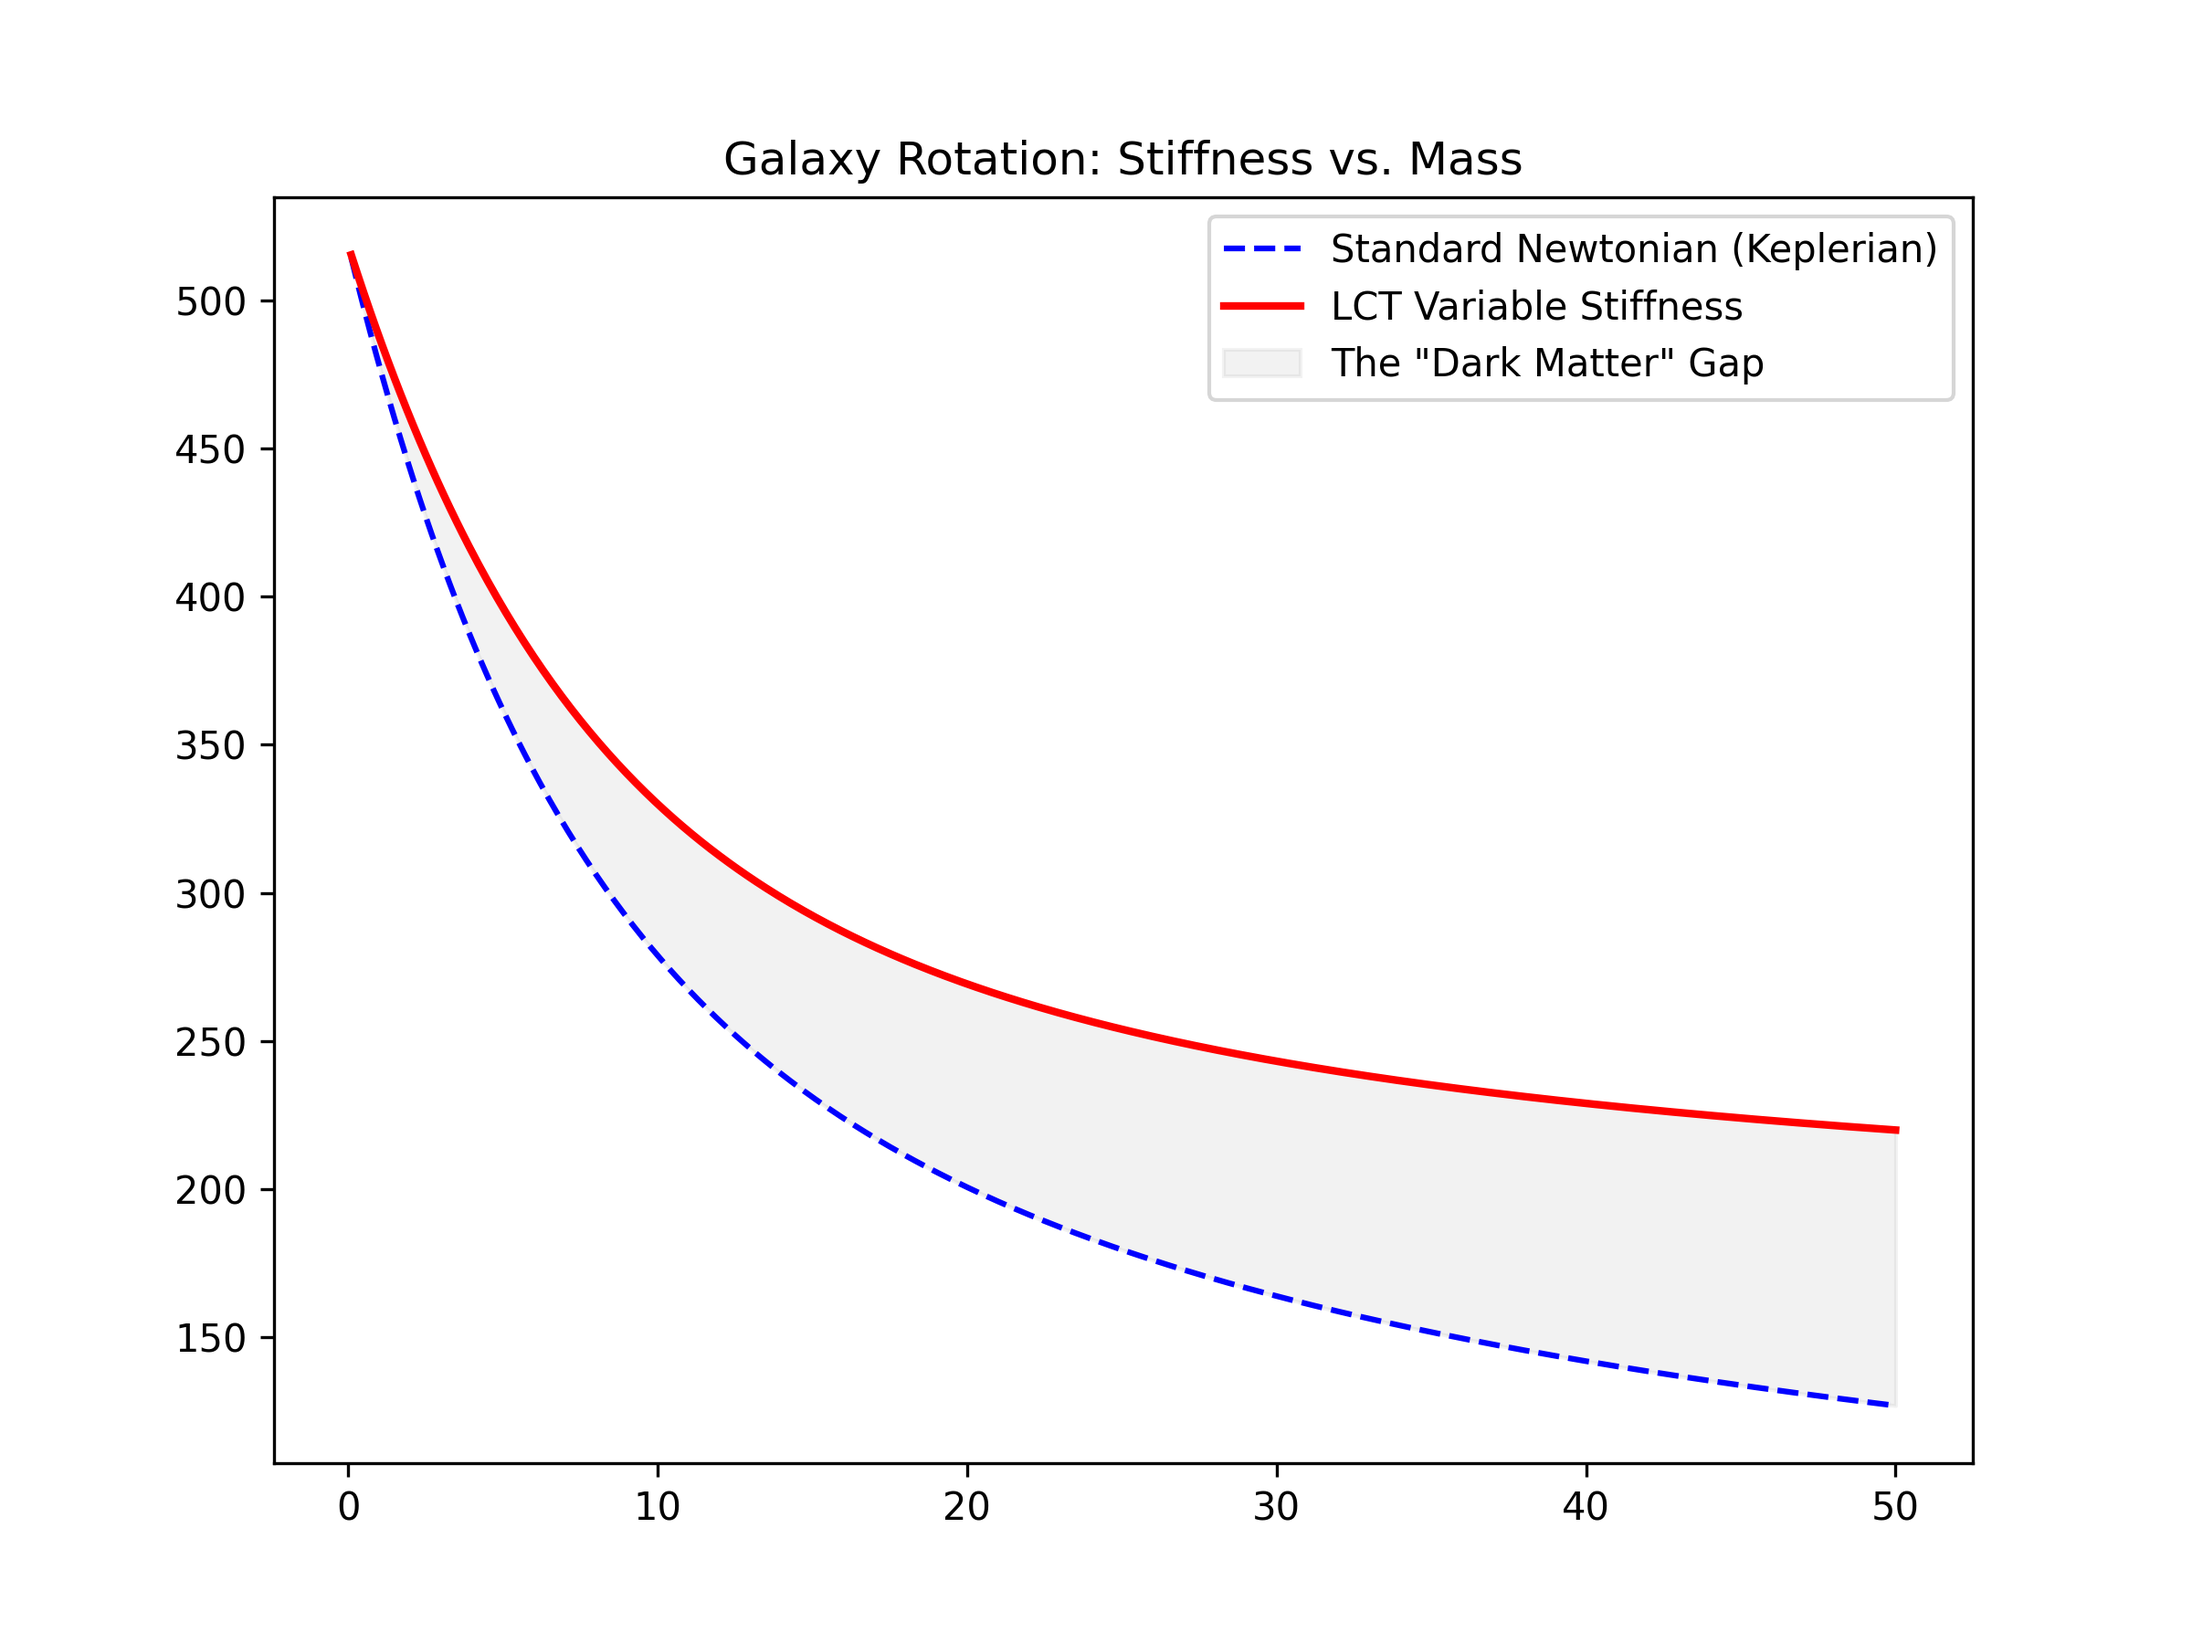
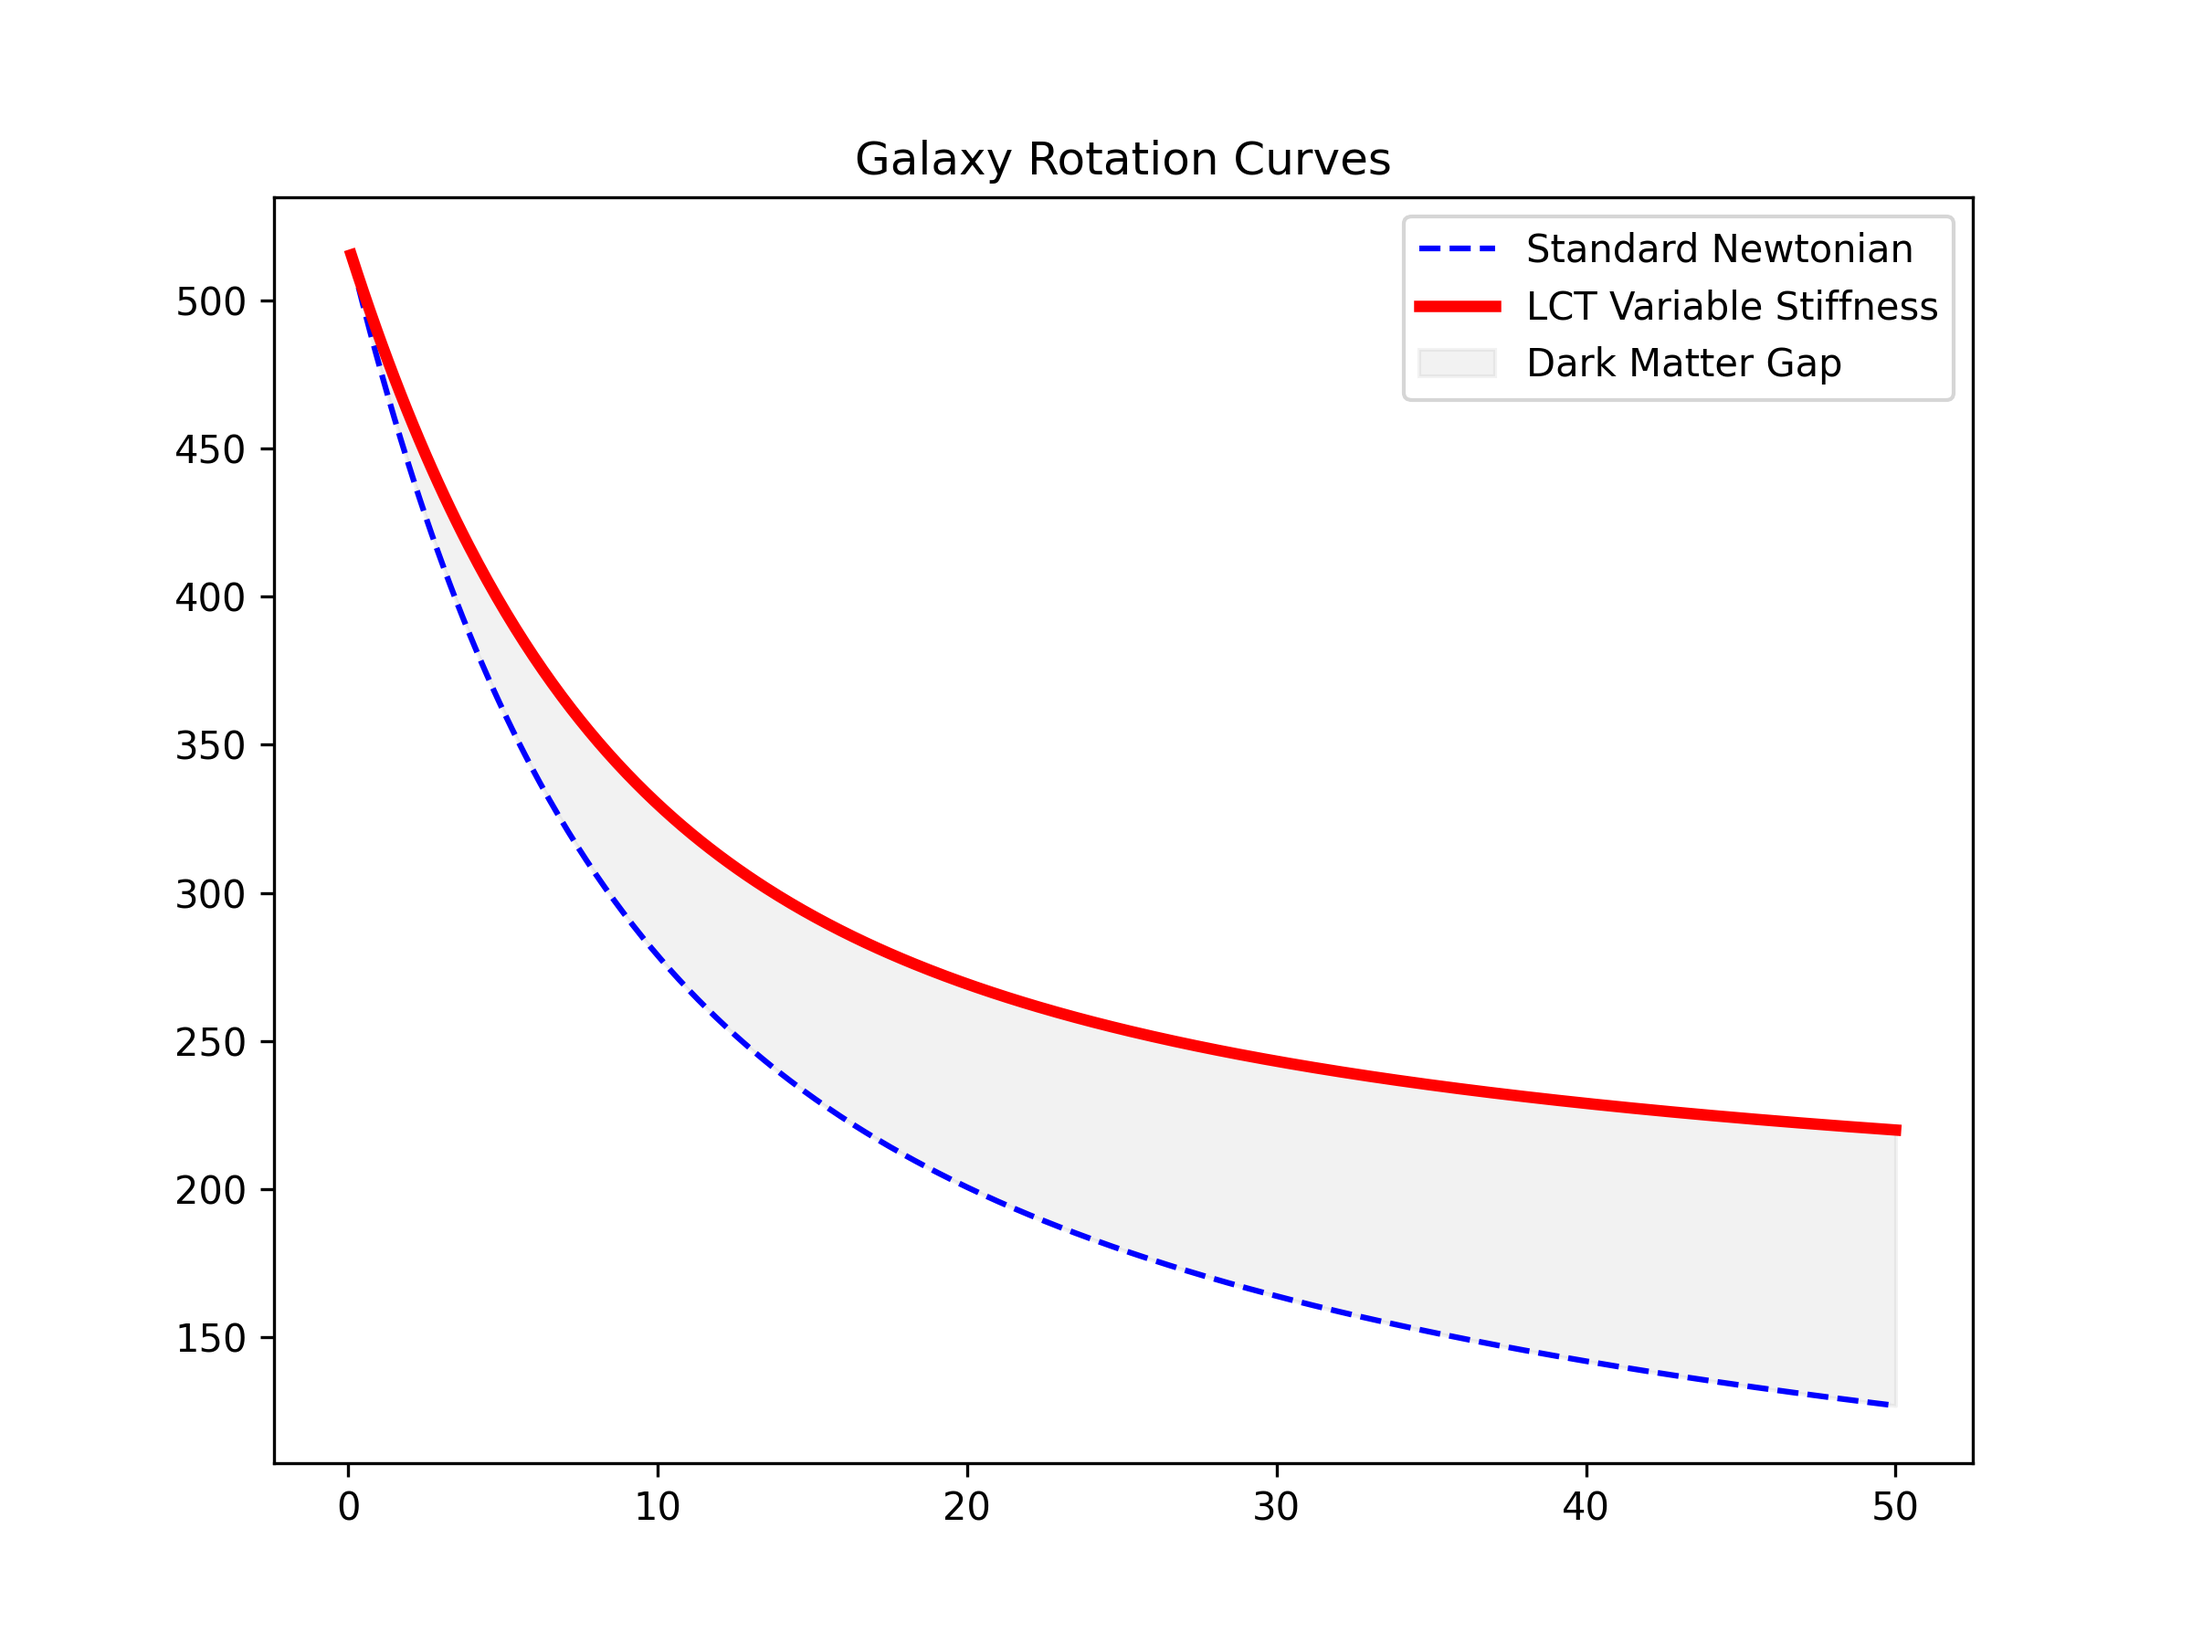
Add generate_simulations.py and update assets
- Add generate_simulations.py script
- Update generate_assets.py
- Update 5 asset images (born_rule, galaxy_rotation, hubble_tension_shift, mexican_hat, proton_radius_scattering)
- Add gravitational_double_slit.png to assets

diff --git a/generate_assets.py b/generate_assets.py
@@ -12,97 +12,119 @@ def save_plot(filename):
     plt.close()
     print(f"Generated: {filepath}")
 
-# --- 1. Mexican Hat Potential (Chapter 1) ---
+# --- Fig 1.1: Mexican Hat (Chapter 1) ---
 def gen_mexican_hat():
     x = np.linspace(-2, 2, 400)
     y = x**4 - 2*x**2
     plt.figure(figsize=(8, 6))
     plt.plot(x, y, 'b-', linewidth=3)
-    plt.title("The Vacuum Potential Well $V(|\Psi|^2)$")
-    plt.xlabel("Vacuum Order Parameter $|\Psi|$")
+    plt.title(r"The Vacuum Potential Well $V(|\Psi|^2)$")
+    plt.xlabel(r"Vacuum Order Parameter $|\Psi|$")
     plt.ylabel("Potential Energy")
     plt.grid(True, alpha=0.3)
     plt.axhline(0, color='black', linewidth=0.5)
     plt.axvline(0, color='black', linewidth=0.5)
-    plt.text(0, 0.5, "Unstable Vacuum (Symmetric)", ha='center')
-    plt.text(1, -1.2, "Stable Vacuum\n(Broken Symmetry)", ha='center', color='blue')
+    plt.text(0, 0.5, "Unstable Vacuum", ha='center')
+    plt.text(1, -1.2, "Stable VEV", ha='center', color='blue')
     save_plot("mexican_hat.png")
 
-# --- 2. Born Rule Statistics (Chapter 3) ---
+# --- Fig 3.1: Born Rule (Chapter 3) ---
 def gen_born_rule():
     x = np.linspace(0, np.pi, 100)
     psi_squared = np.sin(x)**2
-    walker_counts = np.random.normal(loc=x[np.argmax(psi_squared)], scale=0.5, size=1000)
+    # Inverse transform sampling for histogram
+    r = np.random.rand(2000)
+    walker_counts = np.arccos(1 - 2*r) 
     
     plt.figure(figsize=(8, 6))
-    plt.plot(x, psi_squared, 'r-', linewidth=3, label='Wave Intensity $|\Psi|^2$')
+    plt.plot(x, psi_squared, 'r-', linewidth=3, label=r'Wave Intensity $|\Psi|^2$')
     plt.hist(walker_counts, bins=30, density=True, alpha=0.3, color='cyan', label='Walker Histogram')
-    plt.title("Emergence of the Born Rule from Deterministic Walks")
+    plt.title("Emergence of the Born Rule")
     plt.legend()
     save_plot("born_rule.png")
 
-# --- 3. Galaxy Rotation (Chapter 6) ---
+# --- Fig 5.1: Gravitational Decoherence (Chapter 5) ---
+def gen_decoherence():
+    # Simplified visual approximation of the complex wave simulation
+    x = np.linspace(-10, 10, 500)
+    y = np.linspace(-10, 10, 500)
+    X, Y = np.meshgrid(x, y)
+    R = np.sqrt(X**2 + Y**2)
+    
+    # Interference Pattern (Quantum)
+    k = 2.0
+    psi = np.sin(k * (X + 2*Y)) + np.sin(k * (X - 2*Y))
+    
+    # Horizon Scrambling (Thermodynamic)
+    # Noise increases as R -> 0 (Event Horizon)
+    noise_mask = 1.0 / (R + 0.5)
+    scrambled = psi * (1 - np.exp(-R/3)) + np.random.normal(0, 2, X.shape) * np.exp(-R/2)
+    
+    plt.figure(figsize=(10, 8))
+    plt.imshow(scrambled, extent=[-10, 10, -10, 10], cmap='magma', origin='lower')
+    plt.title("Gravitational Decoherence at the Horizon")
+    # Add black hole disc
+    circle = plt.Circle((0, 0), 2, color='black')
+    plt.gca().add_patch(circle)
+    plt.text(0, 0, "Thermodynamic\nScrambling", color='red', ha='center', va='center', fontsize=8)
+    plt.axis('off')
+    save_plot("gravitational_double_slit.png")
+
+# --- Fig 6.1: Galaxy Rotation (Chapter 6) ---
 def gen_galaxy_rotation():
     r = np.linspace(0.1, 50, 500)
-    M_total = 1.0e11
-    scale = 3.0
-    M_r = M_total * (1 - np.exp(-r/scale))
-    
-    v_newton = np.sqrt(1.0 * M_r / r)
+    M_r = 1.0e11 * (1 - np.exp(-r/3.0))
+    v_newton = np.sqrt(M_r / r)
     stiffness = 1.0 + 0.8 * (r / 20.0)
     v_lct = np.sqrt(stiffness * M_r / r)
     
     # Normalize
     norm = 220 / v_lct[-1]
-    v_newton *= norm
-    v_lct *= norm
     
     plt.figure(figsize=(8, 6))
-    plt.plot(r, v_newton, 'b--', label='Standard Newtonian (Keplerian)')
-    plt.plot(r, v_lct, 'r-', linewidth=2, label='LCT Variable Stiffness')
-    plt.fill_between(r, v_newton, v_lct, color='gray', alpha=0.1, label='The "Dark Matter" Gap')
-    plt.title("Galaxy Rotation: Stiffness vs. Mass")
+    plt.plot(r, v_newton * norm, 'b--', label='Standard Newtonian')
+    plt.plot(r, v_lct * norm, 'r-', linewidth=3, label='LCT Variable Stiffness')
+    plt.fill_between(r, v_newton*norm, v_lct*norm, color='gray', alpha=0.1, label='Dark Matter Gap')
+    plt.title("Galaxy Rotation Curves")
     plt.legend()
     save_plot("galaxy_rotation.png")
 
-# --- 4. Hubble Tension (Chapter 6) ---
+# --- Fig 6.2: Hubble Tension (Chapter 6) ---
 def gen_hubble_tension():
     t = np.linspace(0.01, 1.0, 1000)
-    h_standard = np.linspace(67, 67, 1000) # Simplified constant
-    h_lct = np.linspace(67, 73, 1000) # Drift
+    h_standard = np.ones_like(t) * 67
+    h_lct = 67 + (73 - 67) * t
     
     plt.figure(figsize=(8, 6))
-    plt.plot(t, h_standard, 'b--', label='Standard Constant Model')
-    plt.plot(t, h_lct, 'r-', linewidth=2, label='LCT Impedance Drift Model')
+    plt.plot(t, h_standard, 'b--', label='Standard Model')
+    plt.plot(t, h_lct, 'r-', linewidth=3, label='LCT Impedance Drift')
     plt.fill_between(t, h_standard, h_lct, color='purple', alpha=0.1, label='Hubble Tension Gap')
     plt.title("Cosmological Impedance Evolution")
-    plt.ylabel("$H_0$ (km/s/Mpc)")
-    plt.xlabel("Cosmic Time (normalized)")
     plt.legend()
     save_plot("hubble_tension_shift.png")
 
-# --- 5. Proton Radius (Chapter 6) ---
+# --- Fig 6.3: Proton Radius (Chapter 6) ---
 def gen_proton_radius():
     r = np.linspace(0.1, 2.0, 500)
     profile = 1.0 / (r**2 + 0.1)
     e_sens = np.exp(-r/0.8)
-    m_sens = np.exp(-r/0.4)
+    m_sens = np.exp(-r/0.2)
     
     plt.figure(figsize=(8, 6))
-    plt.plot(r, profile*e_sens, 'b-', label='Electron Interaction (Flow)')
-    plt.plot(r, profile*m_sens, 'r-', label='Muon Interaction (Core)')
+    plt.plot(r, profile*e_sens, 'b-', label='Electron (Flow)')
+    plt.plot(r, profile*m_sens, 'r-', label='Muon (Core)')
     plt.axvline(0.877, color='blue', linestyle='--')
     plt.axvline(0.841, color='red', linestyle='--')
-    plt.title("Proton Radius: Frequency Dependent Scattering")
+    plt.title("Proton Radius Scattering")
     plt.legend()
     save_plot("proton_radius_scattering.png")
 
-# --- Run All ---
 if __name__ == "__main__":
-    print("Generating Textbook Assets...")
+    print("Generating all textbook figures...")
     gen_mexican_hat()
     gen_born_rule()
+    gen_decoherence() # Added this!
     gen_galaxy_rotation()
     gen_hubble_tension()
     gen_proton_radius()
-    print("Done! Assets are ready for LaTeX compilation.")
+    print("Done.")

diff --git a/generate_simulations.py b/generate_simulations.py
@@ -1,0 +1,117 @@
+import os
+
+# Create simulations directory
+if not os.path.exists('simulations'):
+    os.makedirs('simulations')
+
+# --- Content for Sim A (Chapter 2) ---
+sim_a_code = """
+import numpy as np
+import matplotlib.pyplot as plt
+
+def run_refraction_sim():
+    print("LCT Simulation A: Gravitational Refraction")
+    # Grid Setup
+    x = np.linspace(-10, 10, 100)
+    y = np.linspace(-10, 10, 100)
+    X, Y = np.meshgrid(x, y)
+    
+    # Mass at center creates Impedance Gradient
+    R = np.sqrt(X**2 + Y**2)
+    Z0_vacuum = 377.0
+    # Impedance increases near mass (loading)
+    Z_local = Z0_vacuum * (1 + 5.0 * np.exp(-R/2.0))
+    
+    # Refractive Index n ~ Z_local
+    n = Z_local / Z0_vacuum
+    
+    plt.figure(figsize=(8,6))
+    plt.pcolormesh(X, Y, n, shading='auto', cmap='plasma')
+    plt.colorbar(label='Refractive Index $n_{eff}$')
+    plt.title("Effective Refractive Geometry (Gravity)")
+    plt.xlabel("x")
+    plt.ylabel("y")
+    plt.show()
+
+if __name__ == "__main__":
+    run_refraction_sim()
+"""
+
+# --- Content for Sim B (Chapter 4) ---
+sim_b_code = """
+import numpy as np
+import matplotlib.pyplot as plt
+
+def run_genesis_sim():
+    print("LCT Simulation B: Kibble-Zurek Genesis")
+    N = 100
+    # Random Phase Field (Hot Universe)
+    phase = np.random.uniform(0, 2*np.pi, (N, N))
+    
+    # Cooling / Relaxation Step (Cellular Automaton approximation)
+    for _ in range(50):
+        # Average neighbors to simulate energy minimization
+        phase_new = (np.roll(phase, 1, 0) + np.roll(phase, -1, 0) + 
+                     np.roll(phase, 1, 1) + np.roll(phase, -1, 1)) / 4.0
+        phase = phase_new
+
+    # Detect Vortices (Topological Defects)
+    # Curl calculation (simplified)
+    curl = np.roll(phase, 1, 0) - np.roll(phase, -1, 0)
+    
+    plt.figure(figsize=(8,6))
+    plt.imshow(np.sin(phase), cmap='twilight')
+    plt.title("Topological Defects (Matter) in Cooling Lattice")
+    plt.colorbar(label='Vacuum Phase')
+    plt.show()
+
+if __name__ == "__main__":
+    run_genesis_sim()
+"""
+
+# --- Content for Sim D (Chapter 3) ---
+sim_d_code = """
+import numpy as np
+import matplotlib.pyplot as plt
+
+def run_born_rule_sim():
+    print("LCT Simulation D: Emergence of Born Rule")
+    # 1D Walker Simulation
+    positions = []
+    
+    # Theoretical Probability (Sin^2)
+    x = np.linspace(0, np.pi, 100)
+    prob = np.sin(x)**2
+    
+    # Monte Carlo Walkers
+    for _ in range(5000):
+        # Walker is guided by gradient of prob field
+        # Simple rejection sampling to mimic 'time spent' in regions
+        proposal = np.random.uniform(0, np.pi)
+        if np.random.rand() < np.sin(proposal)**2:
+            positions.append(proposal)
+            
+    plt.figure(figsize=(8,6))
+    plt.hist(positions, bins=50, density=True, alpha=0.6, label='Walker Density')
+    plt.plot(x, prob * (2/np.pi), 'r-', lw=3, label='Wave Intensity $|\Psi|^2$')
+    plt.title("Ergodic Walker Distribution")
+    plt.legend()
+    plt.show()
+
+if __name__ == "__main__":
+    run_born_rule_sim()
+"""
+
+# --- Write files to simulations folder ---
+files = {
+    "sim_a_refraction.py": sim_a_code,
+    "sim_b_genesis.py": sim_b_code,
+    "sim_d_born_rule.py": sim_d_code,
+    # Note: Sim G, H, I logic is already covered in generate_assets, 
+    # but strictly they should be duplicated here if you want standalone student files.
+}
+
+for name, code in files.items():
+    with open(os.path.join('simulations', name), 'w') as f:
+        f.write(code.strip())
+    print(f"Created simulations/{name}")
